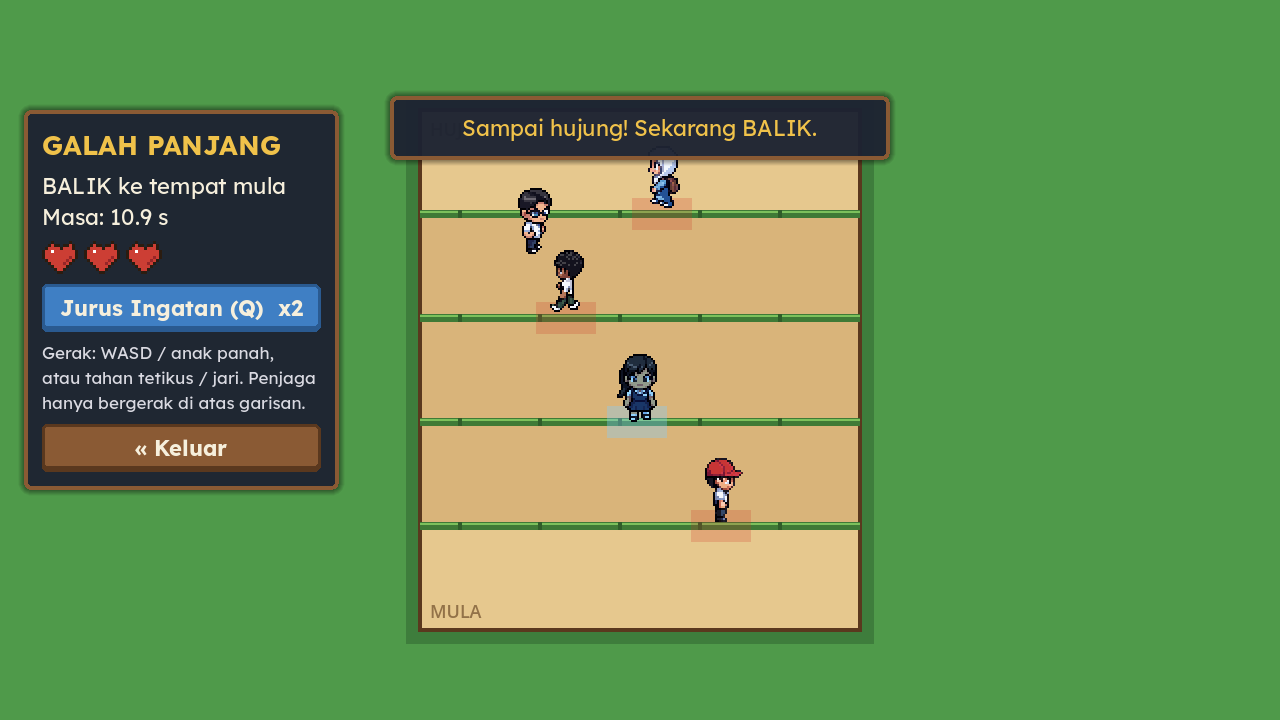
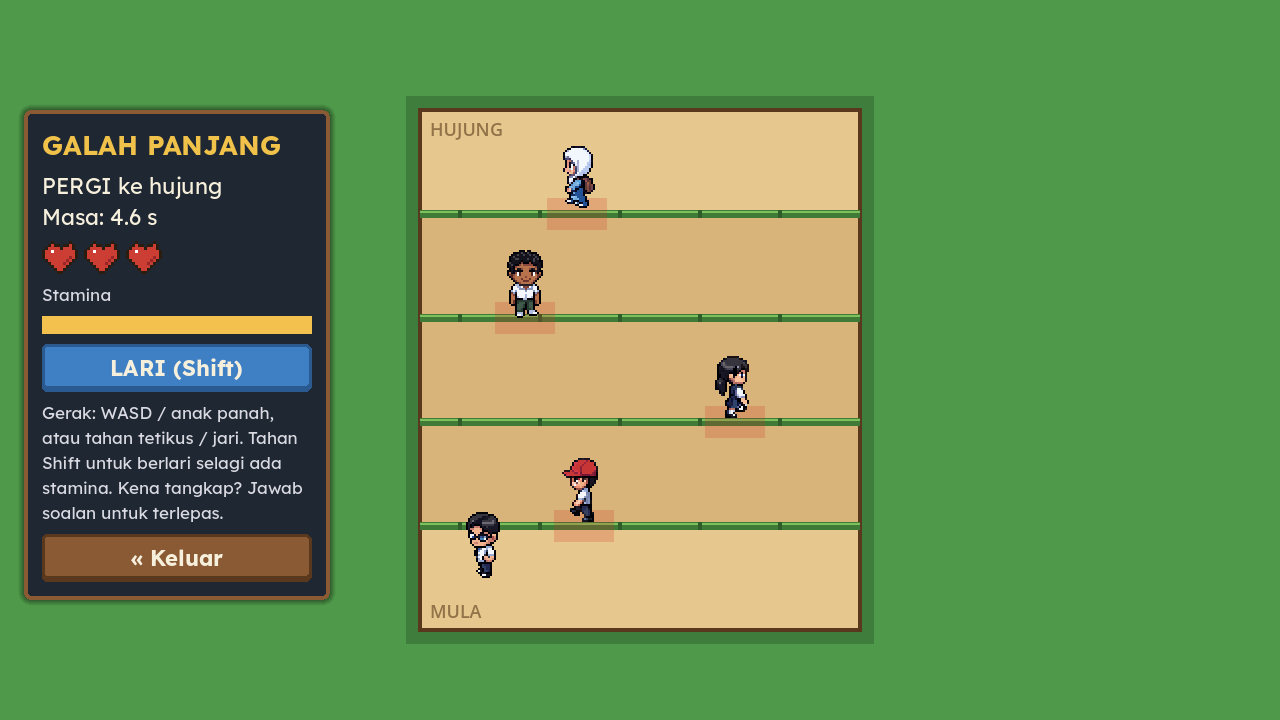
Galah Panjang: question when caught, sprint with stamina; upih redrawn
- A guard who catches Alif asks a revision question: right = he slips
  away and the guard freezes, wrong = one life and back to the last box.
  The Jurus Ingatan button is gone.
- Hold Shift (or the LARI button) to run while the stamina lasts
- Upih sprites redrawn after the design sheet: a scoop that narrows
  into one stalk
- warisan_test: a Sukar round until a guard asks his question

diff --git a/tools/gen_warisan_sprites.py b/tools/gen_warisan_sprites.py
@@ -131,49 +131,58 @@ def bola_raga():
     return outline(im)
 
 
-HULL = [(1, 4), (3, 2), (24, 3), (27, 5), (25, 9), (21, 11), (6, 11), (2, 9)]
+# The upih, after the design sheet for it: a deep scoop with a curled rim that
+# narrows into one long stalk, warm orange-brown. Side view, pulled to the right.
+UPIH, UPIH_L, UPIH_D, UPIH_IN = (198, 122, 62, 255), (236, 176, 104, 255), (150, 86, 42, 255), (122, 66, 34, 255)
+UPIH_OUT = (62, 32, 16, 255)
+HULL = [(1, 6), (2, 3), (5, 2), (8, 4), (13, 7), (20, 8), (27, 8), (31, 7), (42, 2), (43, 3), (43, 4),
+        (32, 10), (28, 12), (23, 15), (13, 16), (7, 15), (3, 12)]
+NEAR = [(2, 8), (6, 10), (12, 12), (21, 12), (27, 11), (31, 9), (32, 10), (28, 12), (23, 15), (13, 16), (7, 15), (3, 12)]
+
+
+def upih_outline(im):
+    global OUT
+    keep, OUT = OUT, UPIH_OUT
+    im = outline(im)
+    OUT = keep
+    return im
 
 
 def upih_belakang():
-    """the sheath of a pinang frond from the side, open on top like a little
-    boat: the rider sits inside (upih_depan is drawn over his legs)"""
-    im, d = canvas(28, 13)
-    d.polygon(HULL, fill=PINANG_D)
-    d.polygon([(3, 4), (23, 4), (25, 5), (22, 7), (5, 7)], fill=PINANG_L)   # the pale inside
-    d.line([4, 3, 23, 3], fill=PINANG)                                       # the far rim
-    return outline(im)
+    """the far side and the inside of the scoop, and the stalk: the rider sits
+    in it and upih_depan is drawn over his legs"""
+    im, d = canvas(44, 18)
+    d.polygon(HULL, fill=UPIH)
+    d.polygon([(3, 5), (5, 4), (12, 8), (20, 9), (27, 9), (30, 9), (26, 11), (12, 12), (6, 10), (3, 8)], fill=UPIH_IN)  # the inside, in shade
+    d.line([6, 7, 13, 10, 24, 10], fill=UPIH_D)                    # the grain inside
+    d.line([2, 4, 5, 3, 8, 5, 13, 8], fill=UPIH_L)                 # the curled far rim
+    d.line([31, 7, 42, 2], fill=UPIH_L)                            # the stalk, lit from above
+    d.line([32, 9, 43, 4], fill=UPIH_D)
+    return upih_outline(im)
 
 
 def upih_depan():
-    """the near wall of the sheath"""
-    im, d = canvas(28, 13)
-    d.polygon([(2, 7), (25, 7), (25, 9), (21, 11), (6, 11), (2, 9)], fill=PINANG)
-    d.line([2, 7, 25, 7], fill=PINANG_L)                                     # the near rim, curled
-    for x in range(6, 23, 4):                                                # the grain
-        d.line([x, 8, x - 1, 10], fill=PINANG_D)
-    d.line([6, 11, 21, 11], fill=PINANG_D)
-    im = outline(im)
+    """the near wall of the scoop"""
+    im, d = canvas(44, 18)
+    d.polygon(NEAR, fill=UPIH)
+    d.line([2, 8, 6, 10, 12, 12, 21, 12, 27, 11, 31, 9], fill=UPIH_L)   # the near rim
+    d.line([5, 12, 11, 14, 22, 14, 28, 12], fill=UPIH_D)                # the grain
+    d.line([8, 15, 13, 16, 22, 15], fill=UPIH_D)
+    im = upih_outline(im)
     px = im.load()
-    for x in range(28):                                                      # no outline along the top: it joins the back
-        for y in range(0, 7):
-            px[x, y] = (0, 0, 0, 0)
+    for x in range(44):                                            # no outline above the rim: it joins the back
+        for y in range(18):
+            if px[x, y] == UPIH_OUT and y < 13 and not (x <= 2 or x >= 31):
+                if px[x, min(y + 1, 17)] != (0, 0, 0, 0) and px[x, y - 1] == (0, 0, 0, 0):
+                    px[x, y] = (0, 0, 0, 0)
     return im
 
 
 def upih():
-    """the whole frond for the fair's card: the sheath and the stalk the puller holds"""
-    im, d = canvas(40, 16)
-    d.polygon([(x, y + 3) for x, y in HULL], fill=PINANG_D)
-    d.polygon([(3, 7), (23, 7), (25, 8), (22, 10), (5, 10)], fill=PINANG_L)
-    d.polygon([(2, 10), (25, 10), (25, 12), (21, 14), (6, 14), (2, 12)], fill=PINANG)
-    for x in range(6, 23, 4):
-        d.line([x, 11, x - 1, 13], fill=PINANG_D)
-    d.line([26, 8, 38, 2], fill=GREEN_D, width=2)                            # the stalk
-    d.line([26, 7, 38, 1], fill=GREEN)
-    for x, y in ((31, 4), (35, 2)):                                          # stubs of the leaves cut off
-        d.line([x, y, x + 1, y - 2], fill=GREEN)
-        d.line([x, y + 1, x + 2, y + 3], fill=GREEN)
-    return outline(im)
+    """the whole upih, for the fair's card"""
+    im = upih_belakang()
+    im.alpha_composite(upih_depan())
+    return im
 
 
 def congkak():
